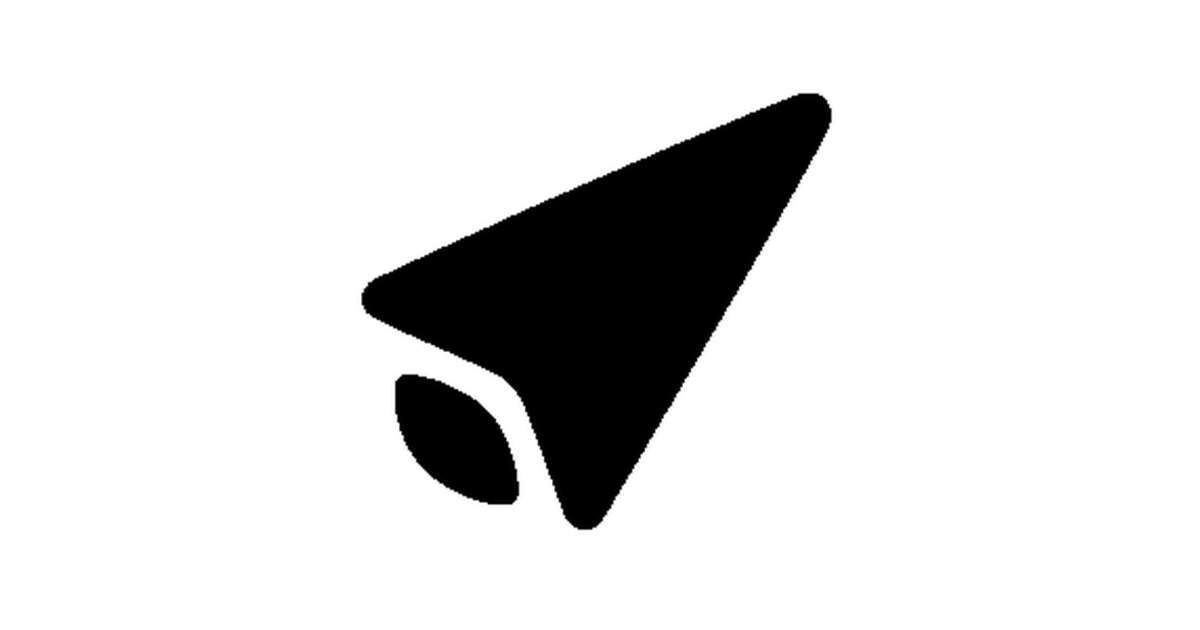
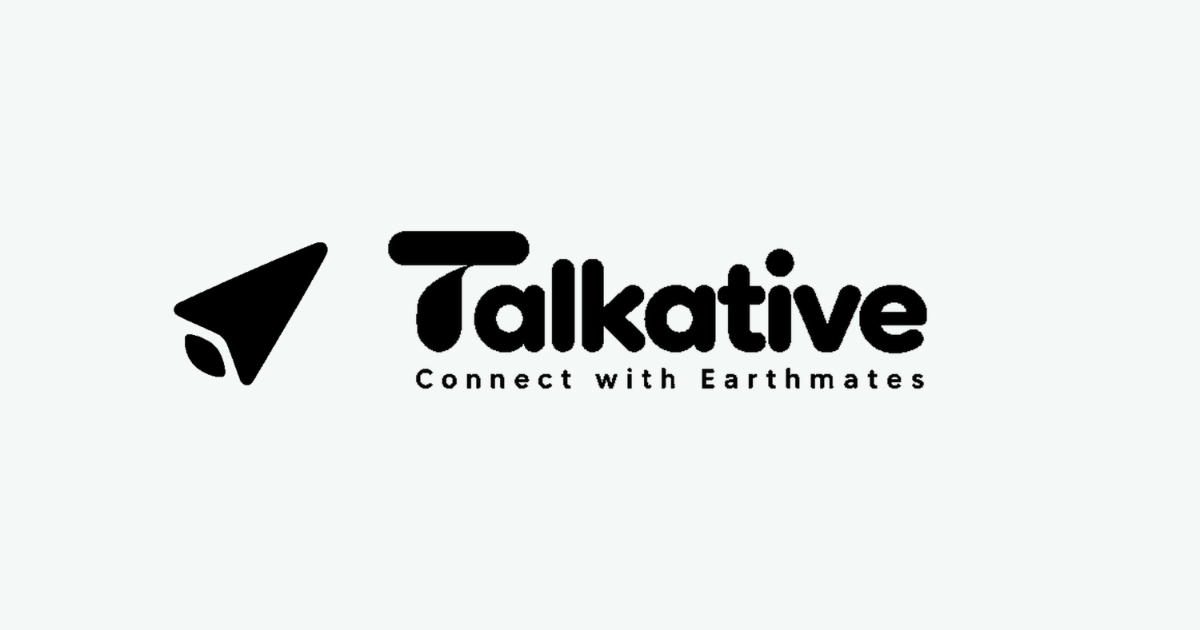
Use Talkative branding in social preview

Changed region(s): [[0.1233, 0.1508, 0.7708, 0.8444]]

diff --git a/app/templates/index.html b/app/templates/index.html
@@ -15,12 +15,12 @@
 <meta property="og:image" content="{{ site_url }}/static/social-preview-v2.png">
 <meta property="og:image:width" content="1200">
 <meta property="og:image:height" content="630">
-<meta property="og:image:alt" content="Talkative paper-plane mark">
+<meta property="og:image:alt" content="Talkative logo with the tagline Connect with Earthmates">
 <meta name="twitter:card" content="summary_large_image">
 <meta name="twitter:title" content="Talkative | Meet People Through Real Conversations">
 <meta name="twitter:description" content="Meet new people through one-to-one conversations on Talkative. Connect respectfully and chat at your own pace.">
 <meta name="twitter:image" content="{{ site_url }}/static/social-preview-v2.png">
-<meta name="twitter:image:alt" content="Talkative paper-plane mark">
+<meta name="twitter:image:alt" content="Talkative logo with the tagline Connect with Earthmates">
 <link rel="icon" type="image/png" sizes="64x64" href="/static/logo/Talkative_Favicon_Black_Transparent_64x64.png" media="(prefers-color-scheme: light)">
 <link rel="icon" type="image/png" sizes="64x64" href="/static/logo/Talkative_Favicon_White_Transparent_64x64.png" media="(prefers-color-scheme: dark)">
 <script>try{if(localStorage.getItem("talkative-theme")==="dark")document.documentElement.dataset.theme="dark"}catch{}</script>

diff --git a/tests/test_seo.py b/tests/test_seo.py
@@ -17,7 +17,7 @@ class SeoTests(unittest.TestCase):
         self.assertIn(b'<link rel="canonical" href="https://talkative.space/">', response.data)
         self.assertIn(b'<meta property="og:title"', response.data)
         self.assertIn(b'https://talkative.space/static/social-preview-v2.png', response.data)
-        self.assertIn(b'<meta name="twitter:image:alt" content="Talkative paper-plane mark">', response.data)
+        self.assertIn(b'<meta name="twitter:image:alt" content="Talkative logo with the tagline Connect with Earthmates">', response.data)
         self.assertIn(b"Meet people through conversations", response.data)
         self.assertIn(b'class="chat-guidelines"', response.data)
         self.assertIn(b"Treat the person you are chatting with respectfully.", response.data)

diff --git a/LOCAL_KB.md b/LOCAL_KB.md
@@ -16,7 +16,7 @@
 - Legacy source DB: `stranger_chat.db`; startup migration copies accounts to user DB when found, but hashed email tombstones prevent deleted accounts from being restored. Existing legacy IDs are not exposed.
 
 ## UI Notes
-- Brand banners and 64x64 favicons live in `app/static/logo/`; banner variants follow the in-app theme, while favicon variants follow browser `prefers-color-scheme`. Social share metadata uses the 1200x630 paper-plane-only `app/static/social-preview-v2.png` for Open Graph and X cards.
+- Brand banners and 64x64 favicons live in `app/static/logo/`; banner variants follow the in-app theme, while favicon variants follow browser `prefers-color-scheme`. Social share metadata uses the 1200x630 Talkative wordmark and tagline in `app/static/social-preview-v2.png` for Open Graph and X cards.
 - Reusable gender icons live in `app/static/icons/male.svg` and `app/static/icons/female.svg`; `app/static/peer-icons.css` applies them to chat and participant preview badges.
 - Both main and account pages include the canonical 54px compact sticky header from `app/templates/_header.html`, keeping the enlarged logo, online count, theme toggle, and profile icon consistent; Account reveals the online/profile controls after authentication. Opening the profile from a chat preserves and restores the active conversation on return while account presence is refreshed. Profile load errors stay visible in-page; Back to chat is at the right of the account title.
 - Account settings are served at `/account` from `app/templates/account.html` with Account and Settings tabs; logout is under Account, while password change and account deletion are under Settings. The Account tab has an optional bio and profession (32 characters max each), an education level selected from grouped global school, vocational, undergraduate, postgraduate, and doctoral options, and a country-specific state/region location selector, each with an independent participant-visibility checkbox defaulting off.
